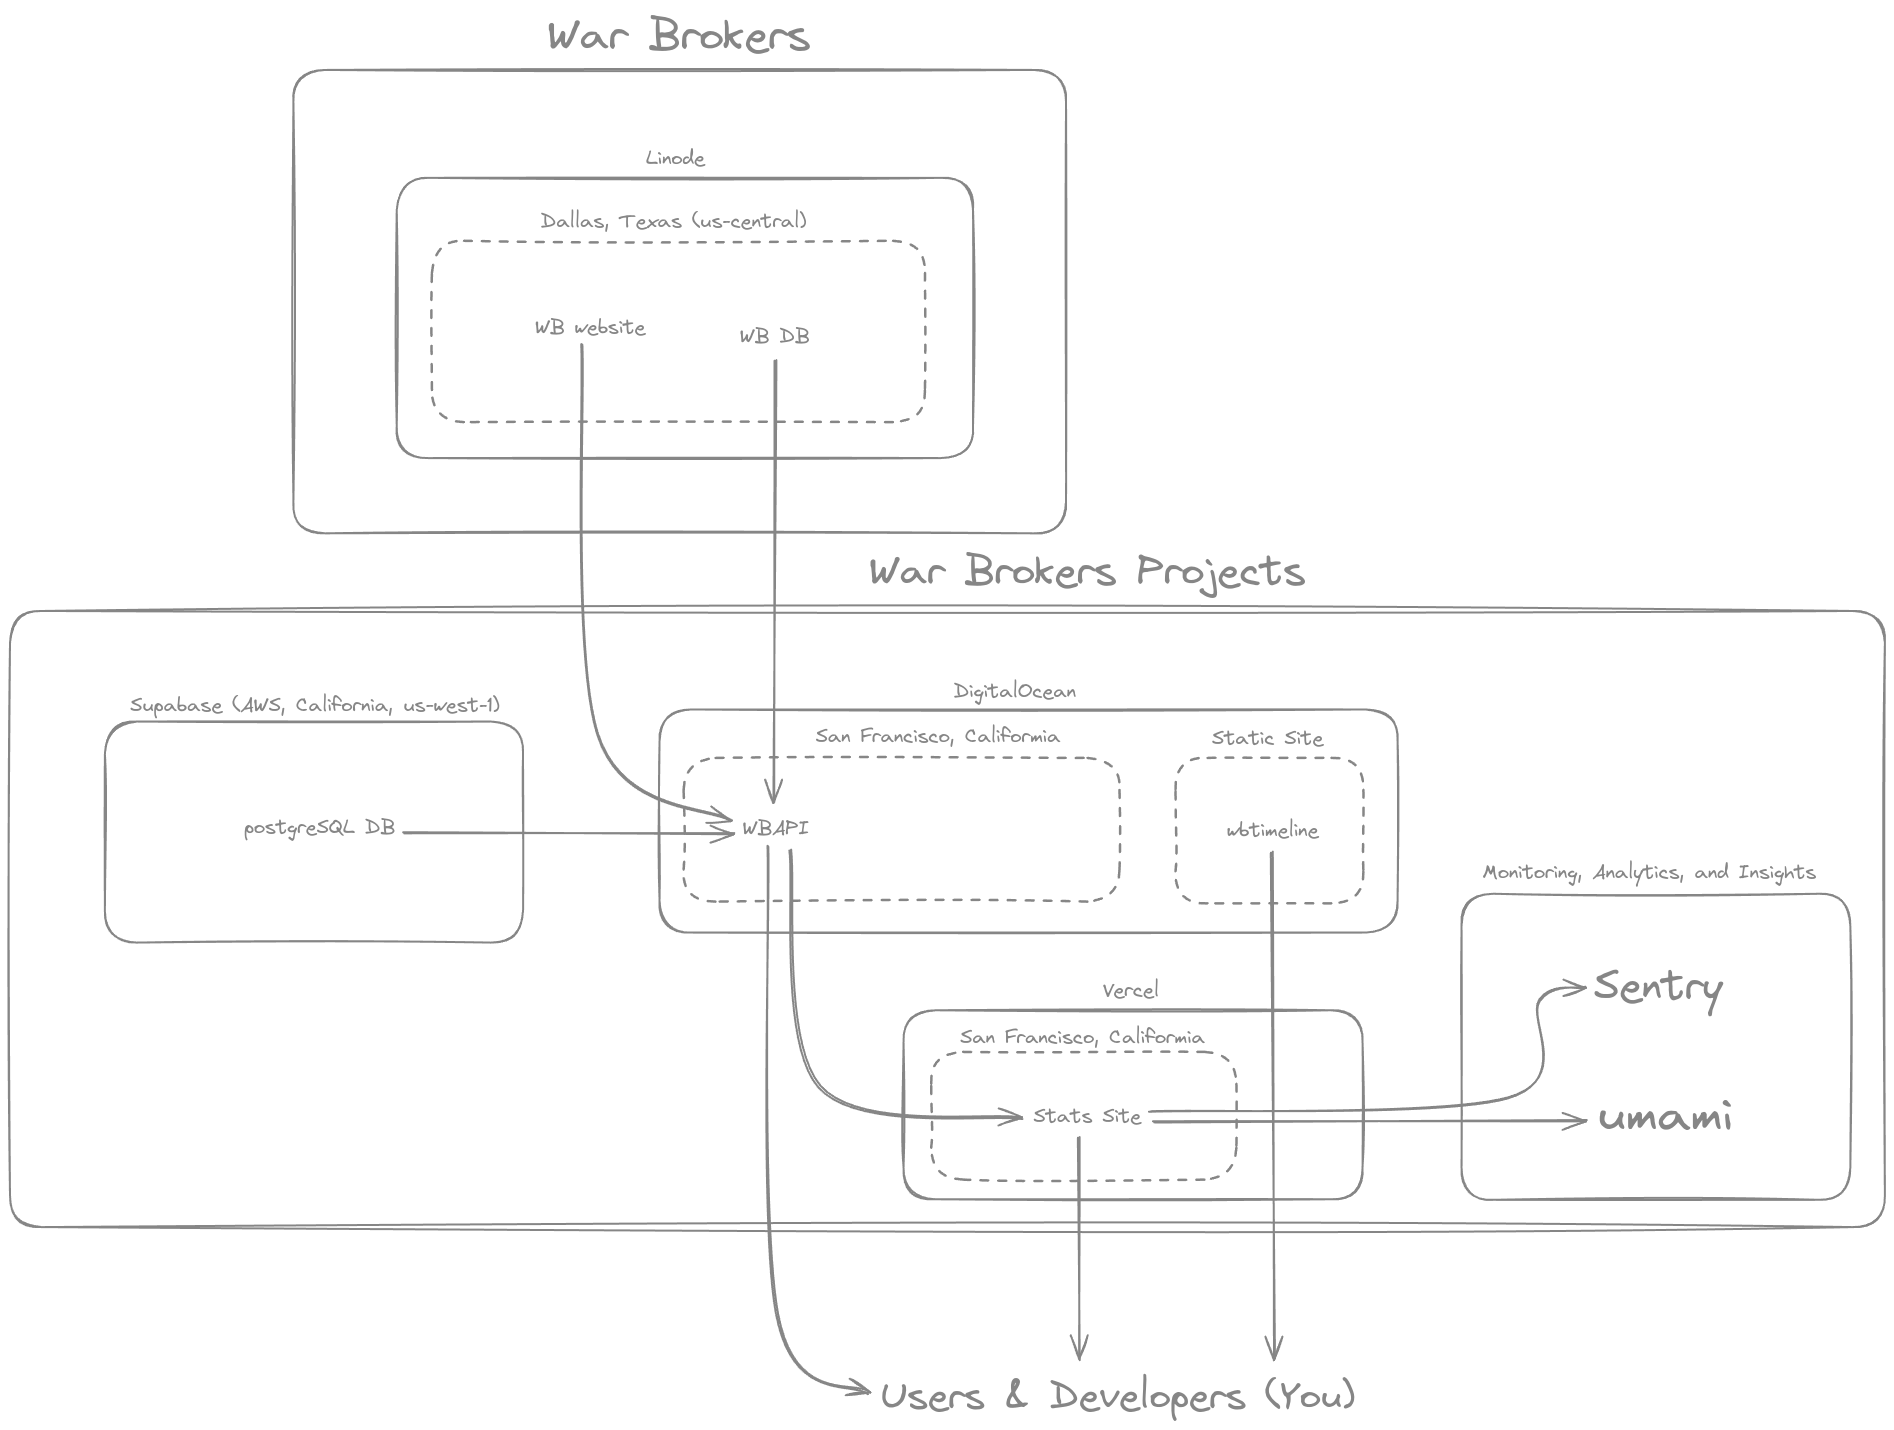
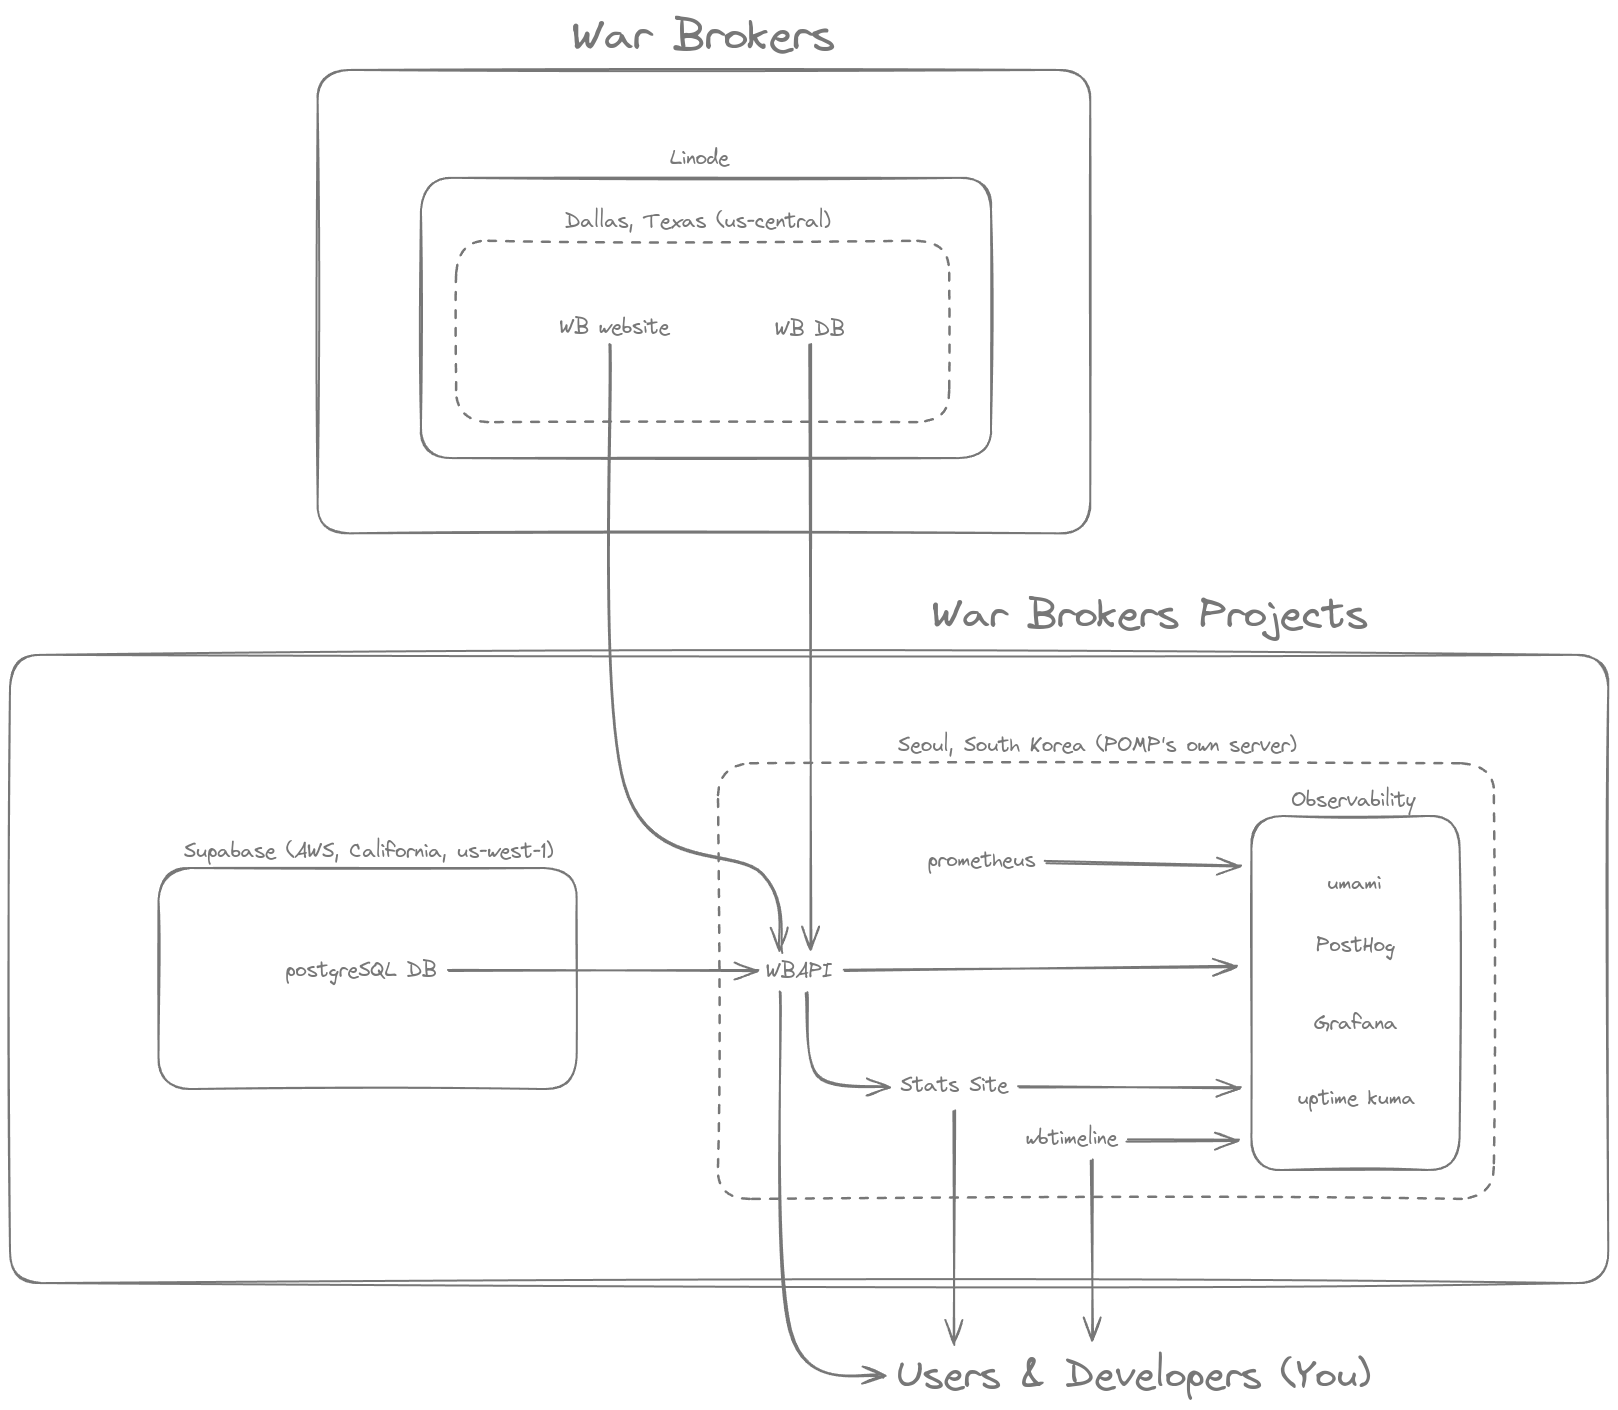
refactor: new infra

diff --git a/apps/stats-site/svelte.config.js b/apps/stats-site/svelte.config.js
@@ -1,4 +1,4 @@
-import adapter from "@sveltejs/adapter-vercel"
+import adapter from "@sveltejs/adapter-node"
 import { vitePreprocess } from "@sveltejs/vite-plugin-svelte"
 
 /** @type {import('@sveltejs/kit').Config} */
@@ -8,14 +8,7 @@ const config = {
 
     kit: {
         // https://kit.svelte.dev/docs/adapters
-        adapter: adapter({
-            runtime: "edge",
-
-            // https://vercel.com/docs/edge-network/regions#region-list
-            regions: [
-                "sfo1", // us-west-1 (San Francisco, USA)
-            ],
-        }),
+        adapter: adapter(),
     },
 }
 
